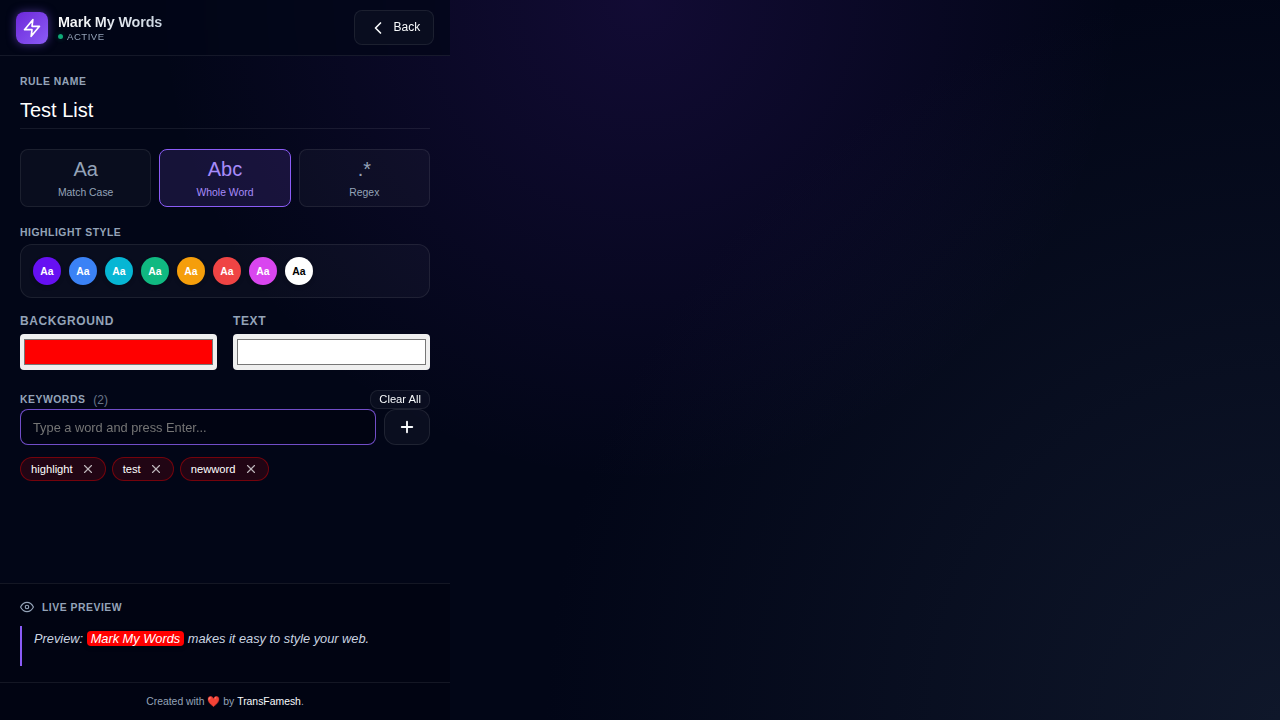
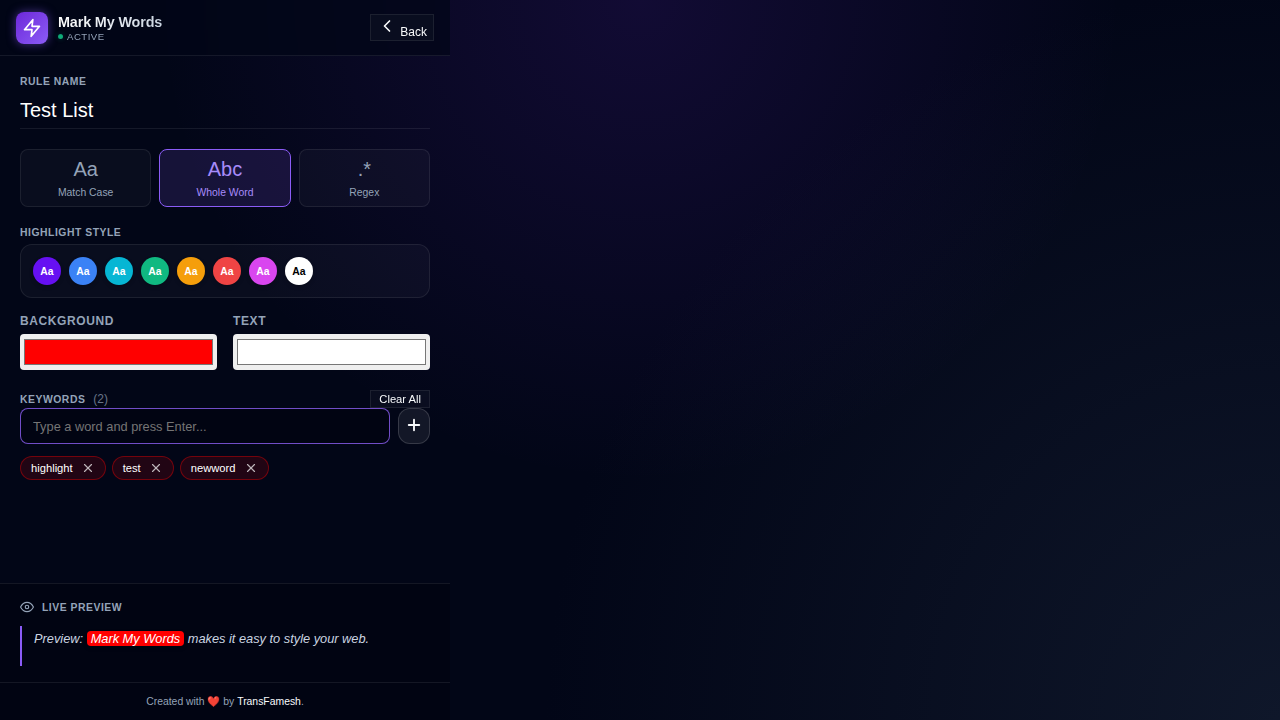
Refactor header layout to organize setting and rescan buttons.
- Grouped "Re-scan" and "Settings" buttons into a unified container in the header.
- Added a visual divider between the two actions.
- Updated `popup.css` to support the new `.header-actions` and `.action-group` structure.
- Maintained the compact styling introduced in the previous UI update.

diff --git a/popup.css b/popup.css
@@ -65,8 +65,6 @@ body {
 ::-webkit-scrollbar-thumb { background: rgba(255, 255, 255, 0.1); border-radius: 3px; }
 ::-webkit-scrollbar-thumb:hover { background: rgba(255, 255, 255, 0.2); }
 
-/* --- Header --- */
-header {
     padding: 0.75rem 1rem; /* Reduced padding */
     background: rgba(2, 6, 23, 0.7);
     backdrop-filter: blur(12px);
@@ -82,7 +80,6 @@ header {
     height: 3.5rem; /* Fixed height for compactness */
 }
 
-.logo-box {
     width: 2rem; /* Reduced size */
     height: 2rem;
     background: linear-gradient(135deg, var(--primary), var(--primary-light));
@@ -95,12 +92,10 @@ header {
     box-shadow: 0 0 10px var(--primary-glow);
 }
 
-.logo-box svg {
     width: 1.25rem;
     height: 1.25rem;
 }
 
-.app-title {
     font-size: 0.9rem; /* Smaller title */
     font-weight: 600;
     letter-spacing: -0.01em;
@@ -110,7 +105,6 @@ header {
     -webkit-text-fill-color: transparent;
 }
 
-.status-badge {
     display: flex;
     align-items: center;
     gap: 0.25rem;
@@ -122,7 +116,6 @@ header {
     margin-top: 1px;
 }
 
-.status-dot {
     width: 5px; /* Smaller dot */
     height: 5px;
     background-color: var(--accent);
@@ -194,7 +187,6 @@ header {
 }
 
 /* --- Dashboard --- */
-.dashboard-header {
     padding: 1rem 1.25rem; /* Reduced padding */
     display: flex;
     justify-content: space-between;
@@ -550,4 +542,101 @@ header {
 .signature strong {
     color: var(--text-main);
     font-weight: 500;
+}
+/* --- Header --- */
+header {
+    padding: 0.75rem 1rem; /* Reduced padding */
+    background: rgba(2, 6, 23, 0.7);
+    backdrop-filter: blur(12px);
+    -webkit-backdrop-filter: blur(12px);
+    border-bottom: 1px solid var(--border);
+    position: sticky;
+    top: 0;
+    z-index: 50;
+    display: flex;
+    justify-content: space-between;
+    align-items: center;
+    flex-shrink: 0; /* Header doesn't shrink */
+    height: 3.5rem; /* Fixed height for compactness */
+}
+
+.logo-box {
+    width: 2rem; /* Reduced size */
+    height: 2rem;
+    background: linear-gradient(135deg, var(--primary), var(--primary-light));
+    border-radius: 0.5rem; /* Tighter radius */
+    display: flex;
+    align-items: center;
+    justify-content: center;
+    margin-right: 0.625rem;
+    color: white;
+    box-shadow: 0 0 10px var(--primary-glow);
+}
+
+.logo-box svg {
+    width: 1.25rem;
+    height: 1.25rem;
+}
+
+.app-title {
+    font-size: 0.9rem; /* Smaller title */
+    font-weight: 600;
+    letter-spacing: -0.01em;
+    margin: 0;
+    background: linear-gradient(to right, #fff, #cbd5e1);
+    -webkit-background-clip: text;
+    -webkit-text-fill-color: transparent;
+}
+
+.status-badge {
+    display: flex;
+    align-items: center;
+    gap: 0.25rem;
+    font-size: 0.6rem;
+    color: var(--text-muted);
+    font-weight: 500;
+    text-transform: uppercase;
+    letter-spacing: 0.05em;
+    margin-top: 1px;
+}
+
+.status-dot {
+    width: 5px; /* Smaller dot */
+    height: 5px;
+    background-color: var(--accent);
+    border-radius: 50%;
+    box-shadow: 0 0 6px rgba(16, 185, 129, 0.4);
+    animation: pulse 3s infinite ease-in-out;
+}
+
+.header-actions {
+    display: flex;
+    align-items: center;
+}
+
+.action-group {
+    display: flex;
+    align-items: center;
+    background: var(--bg-glass);
+    border: 1px solid var(--border);
+    border-radius: 0.5rem;
+    padding: 0.125rem;
+}
+
+.action-group .btn-icon {
+    width: 1.75rem;
+    height: 1.75rem;
+    border-radius: 0.375rem;
+}
+
+.action-group .btn-icon:hover {
+    background-color: var(--bg-glass-hover);
+    color: white;
+}
+
+.divider {
+    width: 1px;
+    height: 1rem;
+    background-color: var(--border);
+    margin: 0 0.125rem;
 }

diff --git a/popup.js b/popup.js
@@ -142,10 +142,13 @@ function render() {
                 </div>
             </div>
         </div>
-        <div>
+        <div class="header-actions">
             ${state.activeView === 'dashboard' 
-                ? `<button class="btn btn-icon" id="btn-refresh" title="Re-scan Page" aria-label="Re-scan Page" style="margin-right: 4px;">${ICONS.eye}</button>
-                   <button class="btn btn-icon" id="btn-settings" title="Settings" aria-label="Settings">${ICONS.settings}</button>` 
+                ? `<div class="action-group">
+                       <button class="btn btn-icon" id="btn-refresh" title="Re-scan Page" aria-label="Re-scan Page">${ICONS.eye}</button>
+                       <div class="divider"></div>
+                       <button class="btn btn-icon" id="btn-settings" title="Settings" aria-label="Settings">${ICONS.settings}</button>
+                   </div>`
                 : `<button id="nav-back" class="btn btn-secondary" style="font-size: 0.75rem;" aria-label="Go Back">${ICONS.chevronLeft} Back</button>`
             }
         </div>
